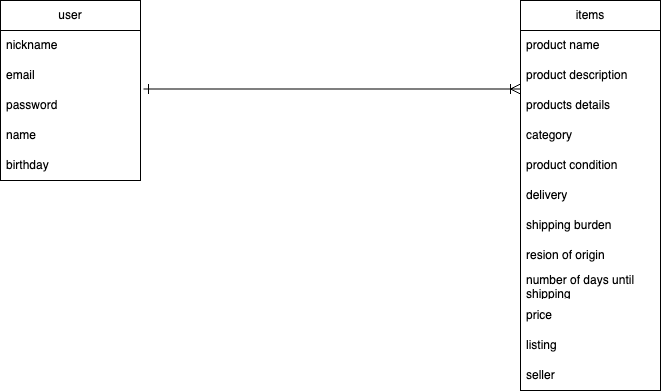
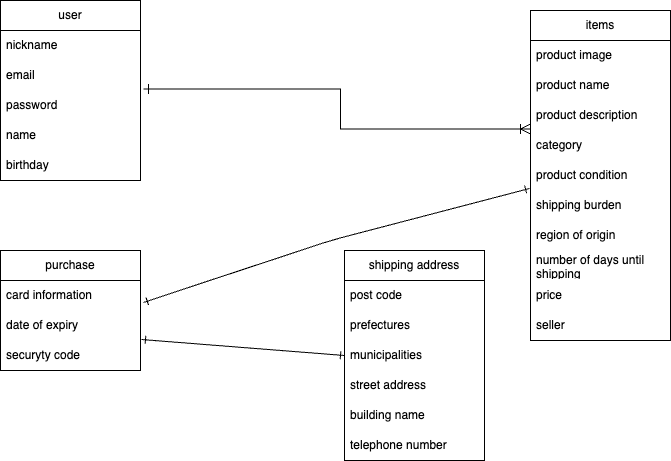
データベースコミット２

diff --git a/README.md b/README.md
@@ -1,3 +1,6 @@
+##user_table
+
+
 | Column  | Type   | Options    |
 | ------- | ------ | ---------- |
 |nickname |string  | null: false|
@@ -6,7 +9,11 @@
 |name     |string  | null: false|
 |birthday |string  | null: false|
 
+###Association
+
 belongs_to :user
+
+##items_table
  
 | Column                        | Type        | Options    |
 | ----------------------------- | ----------- | ---------- |
@@ -21,4 +28,34 @@ belongs_to :user
 | price                         |string       |            |
 | seller                        |string       |            |
 
+
+###Association
+
 has_many :messages
+
+##purchase_table
+
+|Column          |Type  |Options    |
+| -------------- | ---- | --------- |
+|card information|number|null: false|
+|date of expiry  |number|null: false|
+|security code   |number|null: false|
+
+##Association
+
+has_one :profile
+
+##shipping_address_table
+
+|Column|Type|Options|
+| -------------- | ---- | --------- |
+|post code       |number|null: false|
+|prefectures     |string|null: false|
+|municipalities  |string|null: false|
+|street address  |number|null: false|
+|building name   |string|null: false|
+|telephone number|number|null: false|
+
+##Association
+
+belongs_to :user
